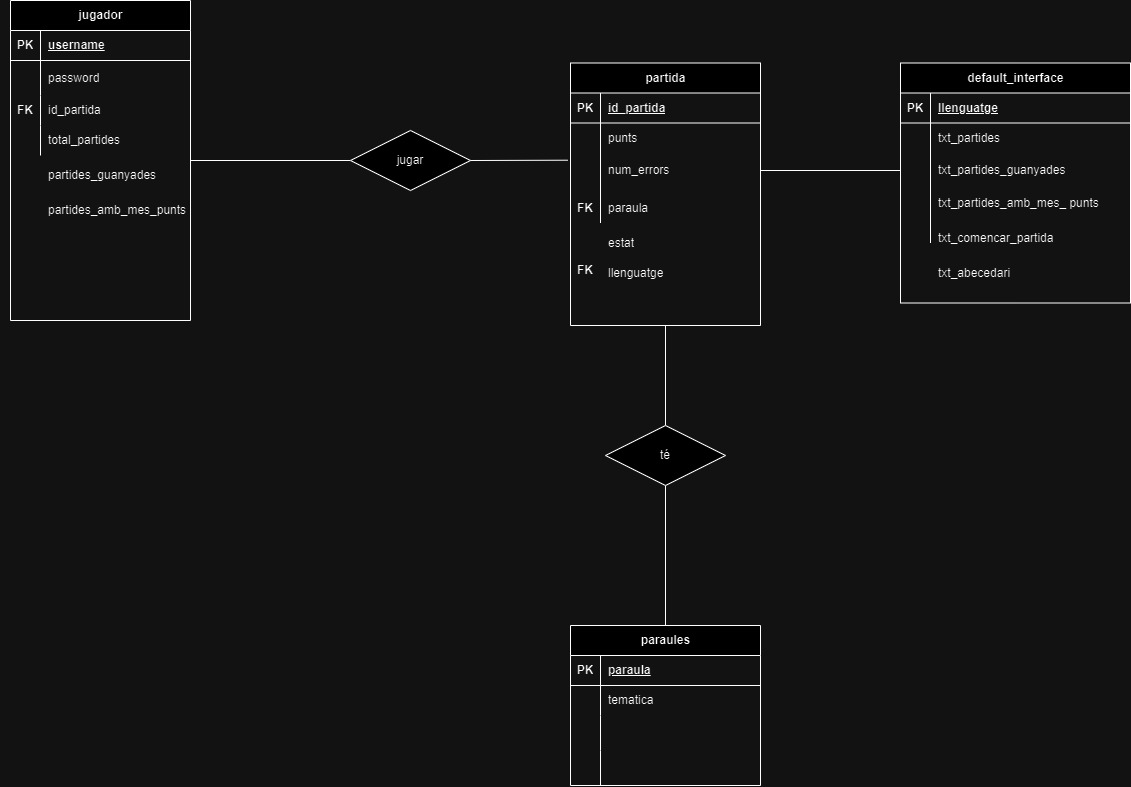
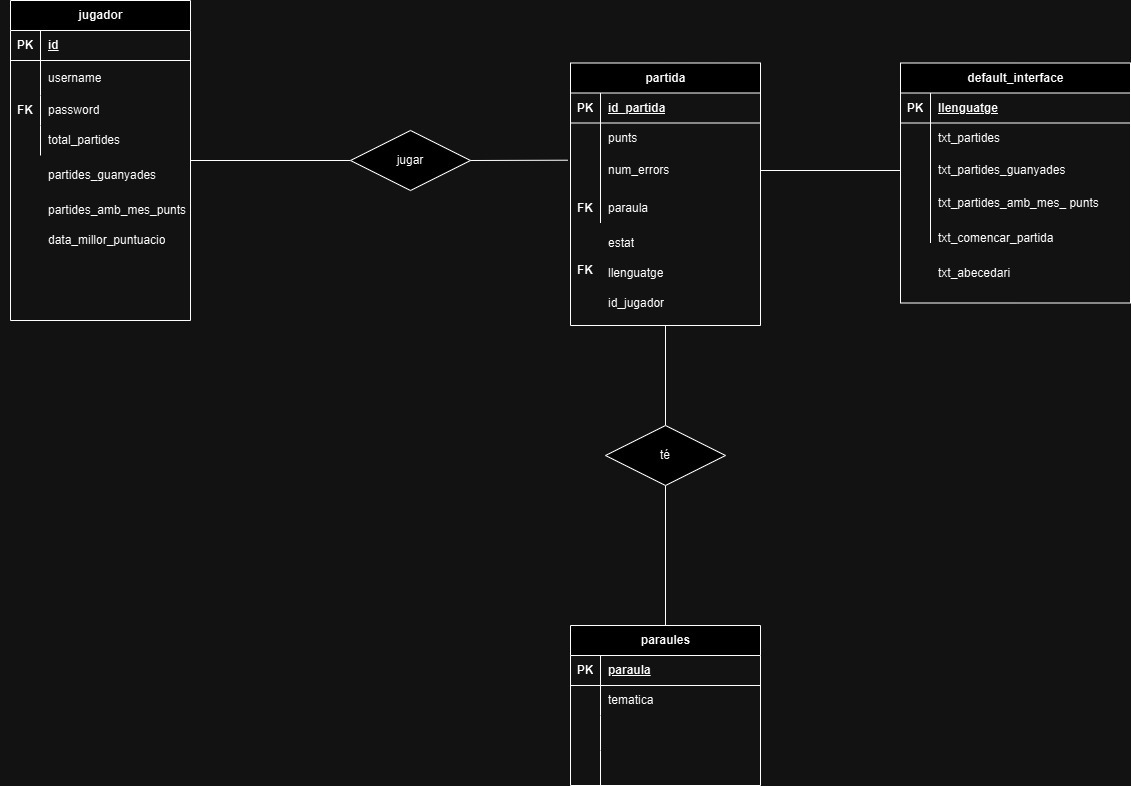
✅ EndPoints Funcionals
EndPoints Funcionals

diff --git a/Activitat_11/crud/read.py b/Activitat_11/crud/read.py
@@ -52,7 +52,7 @@ def read_estadistiques(conexion):
     conn = conexion
     cursor = conn.cursor()
 
-    sql_read_tematica = ''' SELECT username, punts, total_partides, partides_guanyades, partides_amb_mes_punts from partida, jugador where partida.id_jugador = jugador.id '''
+    sql_read_tematica = ''' SELECT username, punts, total_partides, partides_guanyades, partida_amb_mes_punts, data_millor_puntuacio from partida, jugador where partida.id_jugador = jugador.id '''
 
     cursor.execute(sql_read_tematica)
     conn.commit()

diff --git a/Activitat_11/schemas/schemas.py b/Activitat_11/schemas/schemas.py
@@ -19,7 +19,13 @@ def gameErrors_schema(frases) -> dict:
 # Esquemes de les estadístiques
 
 def estadistiques_schema(frase) -> dict:
-    return {'username':frase}
+    return {'username':frase[0],
+            'punts':frase[1],
+            'total_partides': frase[2],
+            'partides_guanyades':frase[3],
+            'partida_amb_mes_punts':frase[4],
+            'data_partida_millor_puntuacio':frase[5]
+            }
 
 
 def estadistiques_schemas(frases) -> dict:

diff --git a/Activitat_11/main.py b/Activitat_11/main.py
@@ -46,7 +46,6 @@ async def estadistiques_text():
 
 
 # Extracció dades estadístiques 
-
 @app.get ("/start-game/estadistiques/puntuacio", response_model=List[dict])
 async def estadistiques():
     read_txt = read.read_estadistiques(db_connection)
